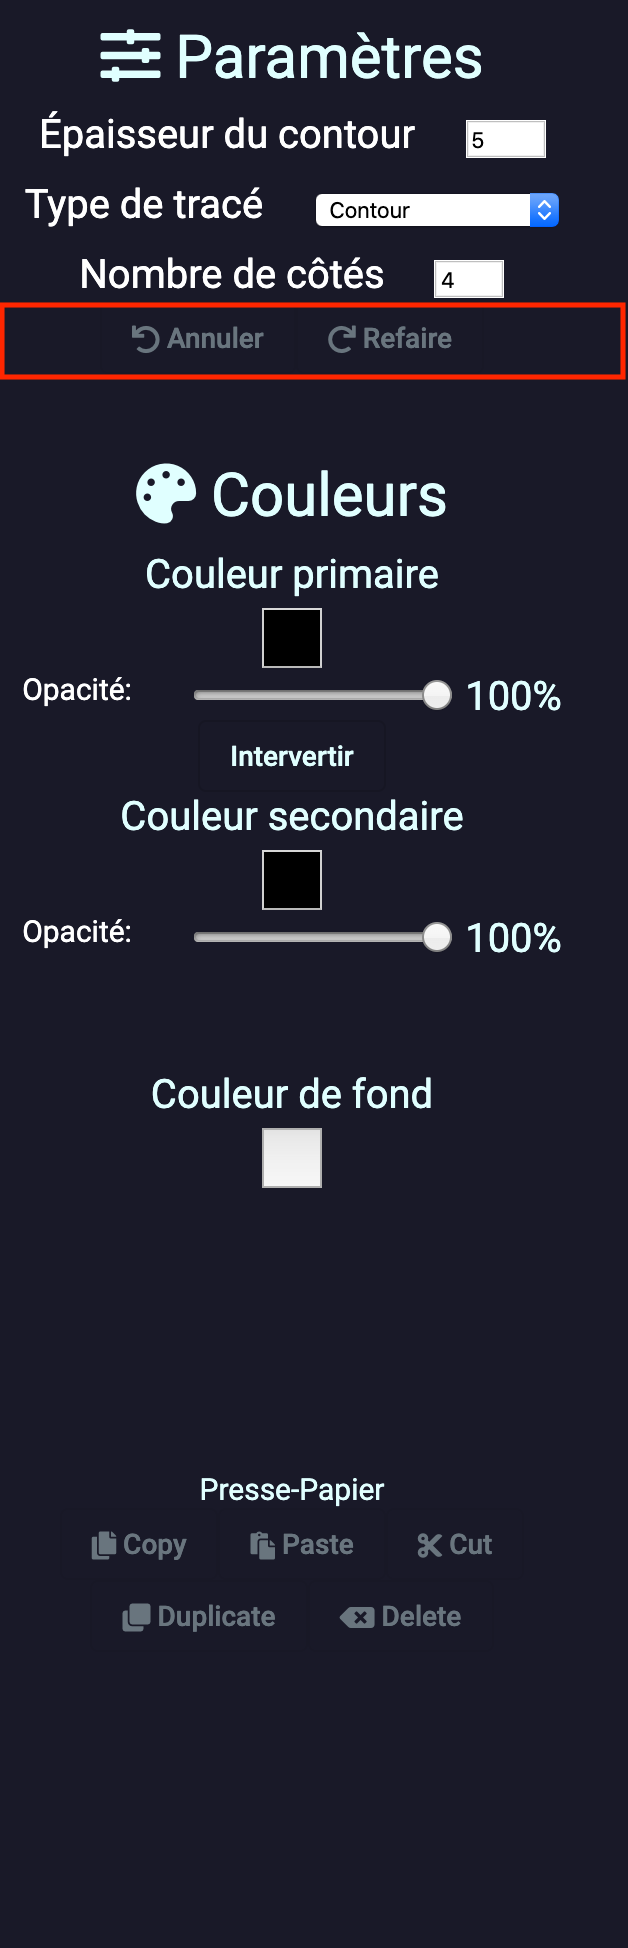
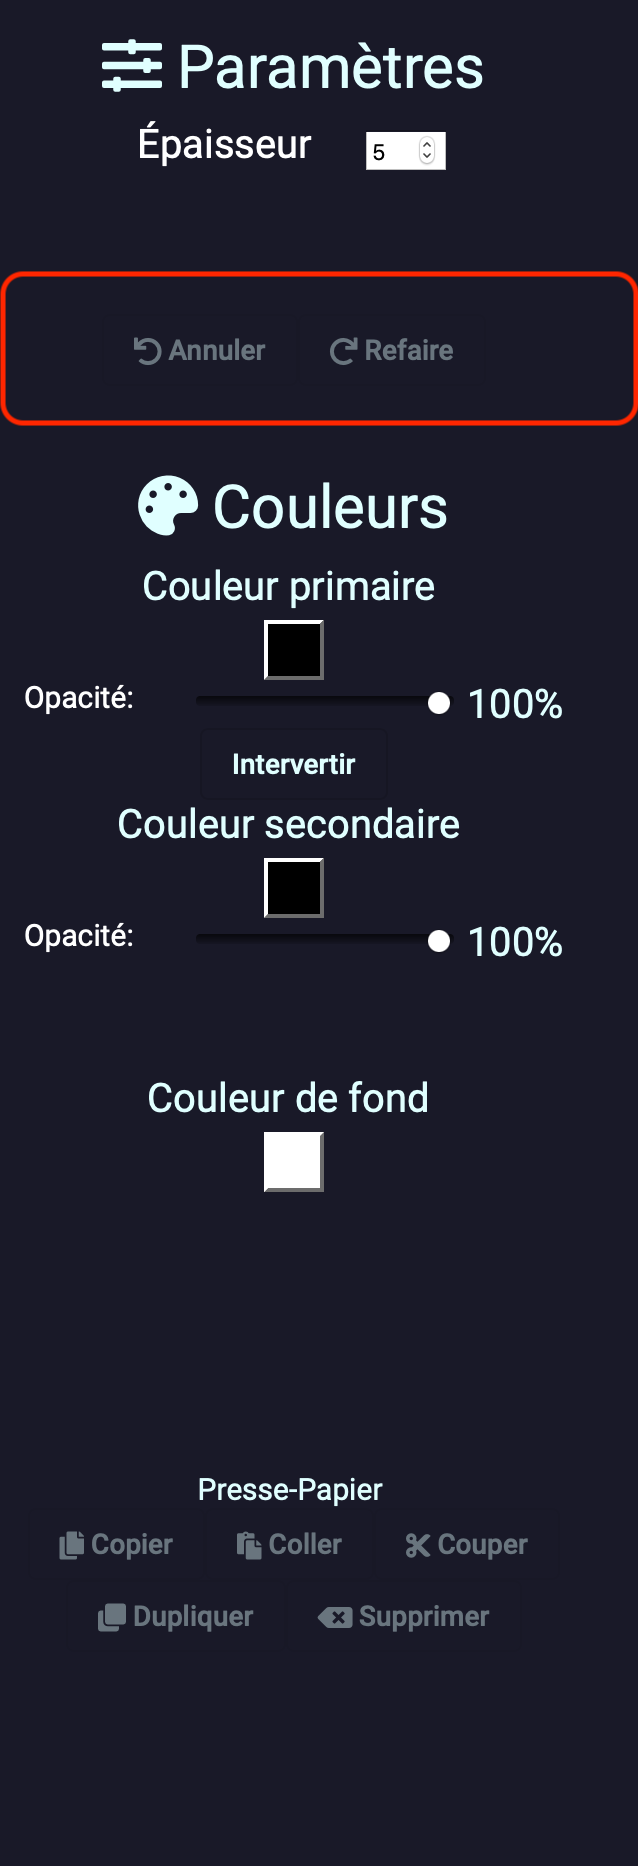
Description de l'ensemble des fonctionnalités

diff --git a/cadriciel/client/src/app/components/guide-page/guide-contents.ts b/cadriciel/client/src/app/components/guide-page/guide-contents.ts
@@ -262,7 +262,8 @@ export const GUIDE_CONTENTS: SubjectGuide[] = [
             },
             {
                 name: 'Sceau de Peinture',
-                description: '',
+                description: `<h1> Sceau de Peinture </h1>
+                              <hr>`,
                 previous: true, next: true,
                 id: 15
             }
@@ -300,6 +301,8 @@ export const GUIDE_CONTENTS: SubjectGuide[] = [
                                 <li> Futuriste </li>
                                 <li> Minimaliste </li>
                               </p>
+                              <p> Une sauvegarde automatique après chaque opération sur le dessin permert de revenir directement sur
+                              le dernier dessin modifié après avoir quitté l'application. </p>
                               <img src="assets/sauvegarde.png" width="500" height="300">`,
                 previous: true, next: true,
                 id: 17
@@ -354,7 +357,19 @@ export const GUIDE_CONTENTS: SubjectGuide[] = [
               {
                   name: 'Presse-Papier',
                   description: `<h1> Presse-Papier </h1>
-                                <hr>`,
+                                <hr>
+                                <p> Le presse-papier permet de manipuler des éléments sélectionnés par l'outil selection. </p>
+                                <p> Il permet les actions suivantes :
+                                    <li> Copier (CTRL+C): copie les éléments sélectionnés dans le presse-papier. </li>
+                                    <li> Coller (CTRL+V): colle les éléments sélectionnés sur le dessin. </li>
+                                    <li> Couper (CTRL+X): copie les éléments sélectionnés dans le presse-papier et
+                                        supprime ensuite ses éléments du dessin </li>
+                                    <li> Dupliquer (CTRL+D): duplique les éléments sélectionnés sur le dessin. </li>
+                                    <li> Supprimer (Delete): supprime les éléments sélectionés du dessin. </li>
+                                </p>
+                                <p> En plus des raccouris, les opérations du presse-papier sont disponible depuis le
+                                panneau des attributs du dessin. </p>
+                                <img src="assets/presse-papier.png" width="300" height="800">`,
                   previous: true, next: true,
                   id: 20
               },
@@ -362,7 +377,7 @@ export const GUIDE_CONTENTS: SubjectGuide[] = [
                   name: 'Annuler-Refaire',
                   description: `<h1> Annuler-Refaire </h1>
                                 <hr>
-                                <p> L'annuler refaire de gérer les dernières actions concernant l'ajout, la
+                                <p> L'annuler refaire permet de gérer les dernières actions concernant l'ajout, la
                                 suppression ou la modification d'éléments dessinés </p>
                                 <p> Les modifications d'un élément concerne:
                                   <li> Changer la couleur d'un élément </li>
@@ -370,7 +385,9 @@ export const GUIDE_CONTENTS: SubjectGuide[] = [
                                 </p>
                                 <p> Les actions de l'annuler-refaire sont disponible sur le panneau des attributs. </p>
                                 <p> Il est possible d'annuler une action avec le raccourci 'CTRL+Z'. </p>
-                                <p> Il est possible de refaire une action avec le raccourci 'CTRL+SHIFT+Z'. </p>`,
+                                <p> Il est possible de refaire une action avec le raccourci 'CTRL+SHIFT+Z'. </p>
+
+                                <img src="assets/annuler-refaire.png" width="300" height="800">`,
                   previous: true, next: true,
                   id: 21
               }
@@ -381,7 +398,7 @@ export const GUIDE_CONTENTS: SubjectGuide[] = [
           description: `<h1> Bonus </h1>
                         <hr>
                         <p> Coder une application demande un long processus de travail. Tout ne fonctionne généralement
-                        pas du premier coup, mais cela n'empêhce pas d'en rire: </p>
+                        pas du premier coup, mais cela n'empêche pas d'en rire: </p>
                         <img src="assets/copy-paste.gif" width="500" height="300">
                         <br>
                         <img src="assets/disco-efface.gif" width="500" height="300">

diff --git a/cadriciel/client/src/app/components/attributes-panel/attributes-panel.component.html b/cadriciel/client/src/app/components/attributes-panel/attributes-panel.component.html
@@ -118,34 +118,34 @@
         <br>
         <ng-template [ngIf]="clipboard.ongoingSelection()" [ngIfElse]="copyNotAvailable">
             <a mat-stroked-button (click)="clipboard.copySelectedElement()">
-                <i class="fas fa-copy"></i> Copy
+                <i class="fas fa-copy"></i> Copier
             </a>
         </ng-template>
         <ng-template #copyNotAvailable>
             <a mat-stroked-button class="notavailable">
-                <i class="fas fa-copy"></i> Copy
+                <i class="fas fa-copy"></i> Copier
             </a>
         </ng-template>
 
         <ng-template [ngIf]="clipboard.canPaste()" [ngIfElse]="pasteNotAvailable">
             <a mat-stroked-button (click)="clipboard.pasteSelectedElement()">
-                <i class="fas fa-paste"></i> Paste
+                <i class="fas fa-paste"></i> Coller
             </a>
         </ng-template>
         <ng-template #pasteNotAvailable>
             <a mat-stroked-button class="notavailable">
-                <i class="fas fa-paste"></i> Paste
+                <i class="fas fa-paste"></i> Coller
             </a>
         </ng-template>
 
         <ng-template [ngIf]="clipboard.ongoingSelection()" [ngIfElse]="cutNotAvailable">
             <a mat-stroked-button (click)="clipboard.cutSelectedElement()">
-                <i class="fas fa-cut"></i> Cut
+                <i class="fas fa-cut"></i> Couper
             </a>
         </ng-template>
         <ng-template #cutNotAvailable>
             <a mat-stroked-button class="notavailable">
-                <i class="fas fa-cut"></i> Cut
+                <i class="fas fa-cut"></i> Couper
             </a>
         </ng-template>
 
@@ -153,23 +153,23 @@
 
         <ng-template [ngIf]="clipboard.ongoingSelection()" [ngIfElse]="duplicateNotAvailable">
             <a mat-stroked-button (click)="clipboard.duplicateSelectedElement()">
-                <i class="fas fa-clone"></i> Duplicate
+                <i class="fas fa-clone"></i> Dupliquer
             </a>
         </ng-template>
         <ng-template #duplicateNotAvailable>
             <a mat-stroked-button class="notavailable">
-                <i class="fas fa-clone"></i> Duplicate
+                <i class="fas fa-clone"></i> Dupliquer
             </a>
         </ng-template>
 
         <ng-template [ngIf]="clipboard.ongoingSelection()" [ngIfElse]="deleteNotAvailable">
             <a mat-stroked-button (click)="clipboard.deleteSelectedElement()">
-                <i class="fas fa-backspace"></i> Delete
+                <i class="fas fa-backspace"></i> Supprimer
             </a>
         </ng-template>
         <ng-template #deleteNotAvailable>
             <a mat-stroked-button class="notavailable">
-                <i class="fas fa-backspace"></i> Delete
+                <i class="fas fa-backspace"></i> Supprimer
             </a>
         </ng-template>
     </div>
